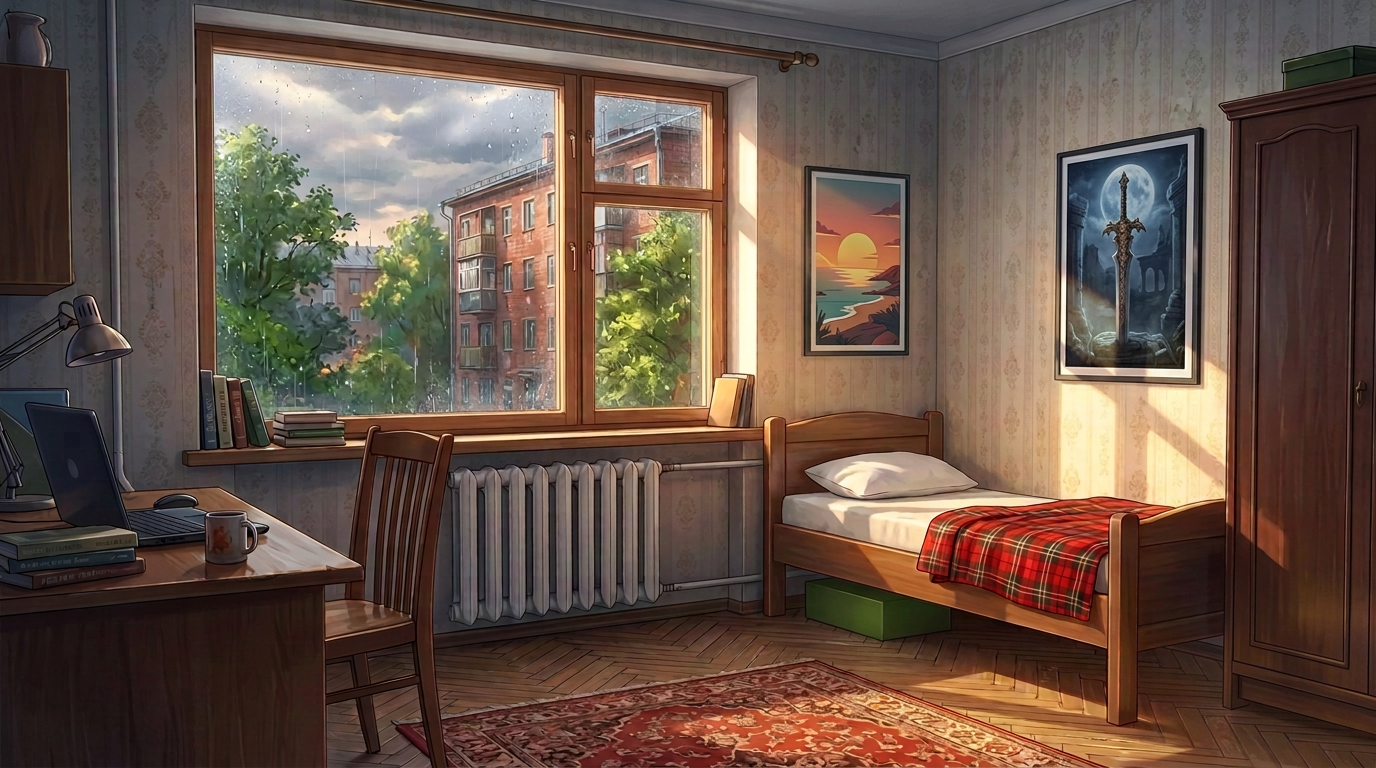
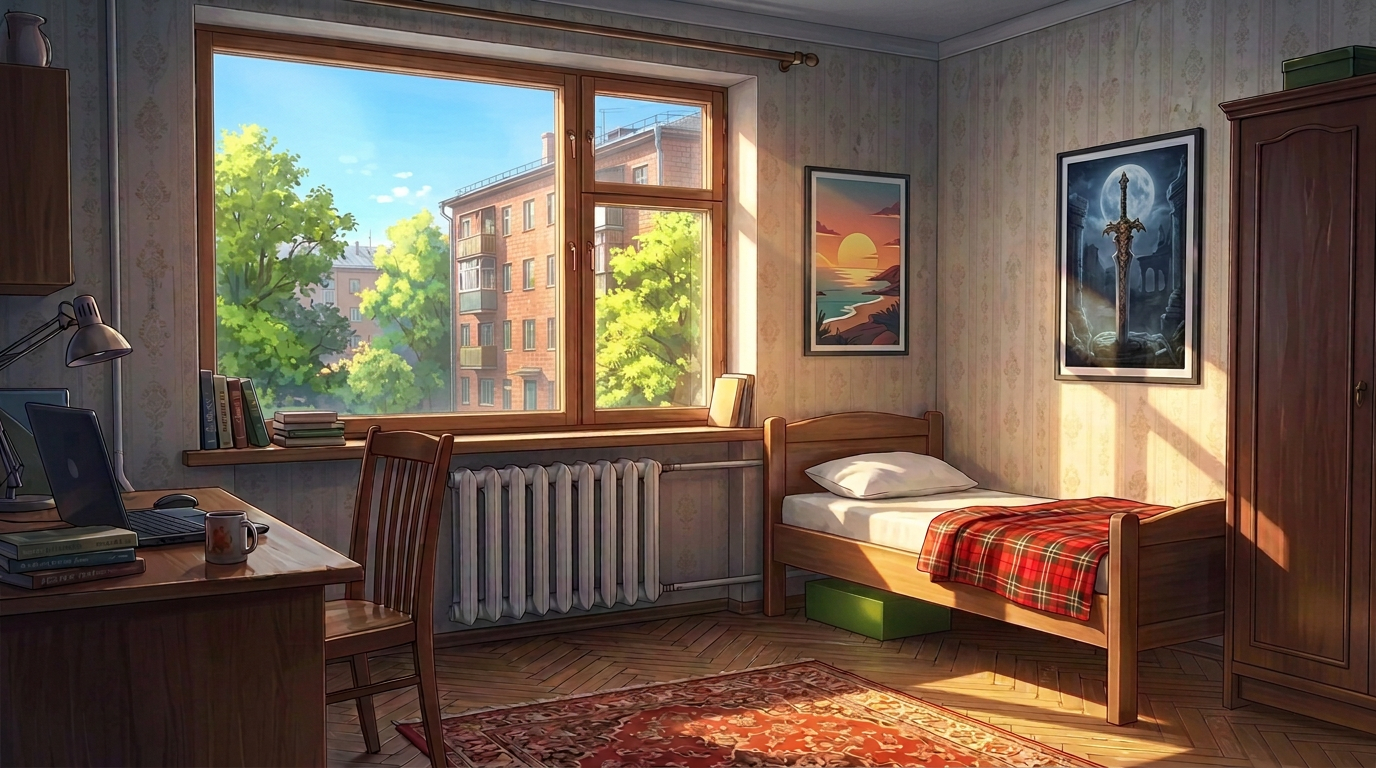
Visuals: dry room/courier spot, night arch and kitchen (same layout), evening embankment, night workshop window, Valeria office window without domes; Dmitry tired/smile; Mirael crying wings fixed; scripts switched to correct backgrounds

diff --git a/script/prologue_3_depot.js b/script/prologue_3_depot.js
@@ -4,11 +4,11 @@ window.VN_CHAPTERS.push({
   day: "ДЕНЬ 0 · ПРОЛОГ",
   title: "Глава III. Горничная с термосом и предгрозовой штиль",
   subtitle: "Точка сбора у шаурмичной · 20:10 – 22:35",
-  bg: "bg_courier_spot",
+  bg: "bg_courier_spot_dry",
   bgm: "workflow.mp3",
   weather: "none",
   nodes: [
-    { sprite: "clear", note: "Фон до грозы должен быть сухим: bg_courier_spot_dry (assets.md §4)", text: "Точка сбора — карман у остановки, между диспетчерской и шаурмичной с жестяным навесом. Вечером тут пахнет луком, бензином и раскалённым за день асфальтом." },
+    { sprite: "clear", text: "Точка сбора — карман у остановки, между диспетчерской и шаурмичной с жестяным навесом. Вечером тут пахнет луком, бензином и раскалённым за день асфальтом." },
     { text: "Духота стояла как в закрытой маршрутке. С запада над пятиэтажками ползла туча, лиловая и плотная, и ни один лист на липах не шевелился." },
     { text: "Из диспетчерской вышел Дмитрий Валерьевич, скрестил руки на груди и оглядел площадку, как прораб — недостроенный объект." },
     { speaker: "Дмитрий", sprite: { char: "dmitry", emotion: "serious", pos: "right" }, text: "Так, орлы. Ближе к ночи заходит фронт, тариф по району подняли в полтора раза. Кто сольётся с линии в грозу — до конца месяца на дневных пакетах." },
@@ -90,7 +90,7 @@ window.VN_CHAPTERS.push({
         ]
       }
     },
-    { bgm: "The Hollow Stare.mp3", weather: "rain", sprite: "clear", text: "Около десяти туча наконец легла на город. Сначала по навесу шаркнули редкие тяжёлые капли, потом громыхнуло так, что в шаурмичной звякнули стаканы, и ливень встал стеной." },
+    { bg: "bg_courier_spot", bgm: "The Hollow Stare.mp3", weather: "rain", sprite: "clear", text: "Около десяти туча наконец легла на город. Сначала по навесу шаркнули редкие тяжёлые капли, потом громыхнуло так, что в шаурмичной звякнули стаканы, и ливень встал стеной." },
     {
       if: "raincoat_packed",
       then: [

diff --git a/script/day1_3_evening.js b/script/day1_3_evening.js
@@ -97,7 +97,7 @@ window.VN_CHAPTERS.push({
         ]
       }
     },
-    { bgm: "River Fog.mp3", text: "Обратно он пошёл другой дорогой, через старые дворы. В глубокой кирпичной арке Старокупеческого переулка было темно и прохладно." },
+    { bg: "bg_courtyard_arch_night", bgm: "River Fog.mp3", text: "Обратно он пошёл другой дорогой, через старые дворы. В глубокой кирпичной арке Старокупеческого переулка было темно и прохладно." },
     {
       if: "saw_taya_d0",
       then: [
@@ -110,7 +110,7 @@ window.VN_CHAPTERS.push({
       ]
     },
     { text: "Пальцы в кармане нашли часы. Он спустился по ступенькам и толкнул дверь." },
-    { bg: "bg_taya_workshop", bgm: "Soft Morning Light.mp3", note: "окно мастерской на фоне должно быть ночным (assets.md §4)", text: "Звякнул колокольчик. Внутри пахло деревом, часовым маслом и чаем. Со всех полок тикали часы — вразнобой, как дождь по крыше." },
+    { bg: "bg_taya_workshop", bgm: "Soft Morning Light.mp3", text: "Звякнул колокольчик. Внутри пахло деревом, часовым маслом и чаем. Со всех полок тикали часы — вразнобой, как дождь по крыше." },
     { speaker: "Тая", sprite: { char: "taya", emotion: "neutral", pos: "right" }, text: "Заходи. Не стой на пороге." },
     { text: "За верстаком под зелёной лампой сидела темноволосая девушка в оливковом кардигане. Она сняла с глаза лупу, и он увидел, что глаза у неё разные: правый зелёный, левый голубой." },
     { speaker: "Александр", sprite: { char: "alexander", emotion: "neutral", pos: "left" }, text: "Добрый вечер. У меня часы встали. Вчера. После... удара." },

diff --git a/index.html b/index.html
@@ -260,22 +260,22 @@
   </div>
 
   <!-- SCRIPT CHAPTERS -->
-  <script src="vn-config.js?v=20261101_05"></script>
-  <script src="vn-core.js?v=20261101_05"></script>
-  <script src="script/_registry.js?v=20261101_05"></script>
-  <script src="script/prologue_1_morning.js?v=20261101_05"></script>
-  <script src="script/prologue_2_city.js?v=20261101_05"></script>
-  <script src="script/prologue_3_depot.js?v=20261101_05"></script>
-  <script src="script/prologue_4_crash.js?v=20261101_05"></script>
-  <script src="script/day1_1_mirael.js?v=20261101_05"></script>
-  <script src="script/day1_2_valeria.js?v=20261101_05"></script>
-  <script src="script/day1_3_evening.js?v=20261101_05"></script>
-  <script src="script/day2_1_taya.js?v=20261101_05"></script>
-  <script src="script/day2_2_depot.js?v=20261101_05"></script>
-  <script src="script/day2_3_night.js?v=20261101_05"></script>
-  <script src="script/day3_1_office.js?v=20261101_05"></script>
-  <script src="script/day3_2_nika.js?v=20261101_05"></script>
-  <script src="script/day3_3_home.js?v=20261101_05"></script>
-  <script src="engine.js?v=20261101_05"></script>
+  <script src="vn-config.js?v=20261101_06"></script>
+  <script src="vn-core.js?v=20261101_06"></script>
+  <script src="script/_registry.js?v=20261101_06"></script>
+  <script src="script/prologue_1_morning.js?v=20261101_06"></script>
+  <script src="script/prologue_2_city.js?v=20261101_06"></script>
+  <script src="script/prologue_3_depot.js?v=20261101_06"></script>
+  <script src="script/prologue_4_crash.js?v=20261101_06"></script>
+  <script src="script/day1_1_mirael.js?v=20261101_06"></script>
+  <script src="script/day1_2_valeria.js?v=20261101_06"></script>
+  <script src="script/day1_3_evening.js?v=20261101_06"></script>
+  <script src="script/day2_1_taya.js?v=20261101_06"></script>
+  <script src="script/day2_2_depot.js?v=20261101_06"></script>
+  <script src="script/day2_3_night.js?v=20261101_06"></script>
+  <script src="script/day3_1_office.js?v=20261101_06"></script>
+  <script src="script/day3_2_nika.js?v=20261101_06"></script>
+  <script src="script/day3_3_home.js?v=20261101_06"></script>
+  <script src="engine.js?v=20261101_06"></script>
 </body>
 </html>

diff --git a/vn-config.js b/vn-config.js
@@ -75,8 +75,8 @@
       fallback: "neutral"
     },
     dmitry: {
-      emotions: set(C + "dmitry/transparent/dmitry_{e}.png", ["neutral", "serious", "angry"]),
-      aliases: { tired: "neutral", smile: "neutral" },
+      emotions: set(C + "dmitry/transparent/dmitry_{e}.png", ["neutral", "serious", "angry", "tired", "smile"]),
+      aliases: {},
       fallback: "neutral"
     },
     taya: {

diff --git a/engine.js b/engine.js
@@ -1,6 +1,6 @@
 // ДВИЖОК ВИЗУАЛЬНОЙ НОВЕЛЛЫ «НЕ СМОТРИ НА НЕБО» ($WAG ENTERTAINMENT)
 (function () {
-  const ASSET_VER = "20261101_05";
+  const ASSET_VER = "20261101_06";
 
   function withVer(url) {
     if (!url) return "";

diff --git a/docs/production/assets.md b/docs/production/assets.md
@@ -8,26 +8,26 @@
 
 | Файл | Что | Можно: время / погода | Проблема (ревью 01.11) |
 |---|---|---|---|
-| `bg_sasha_room_day.png` | Комната Саши днём | утро, день; **только дождь** | За окном идёт дождь, поэтому на сухие дни не годится. Нужен сухой вариант |
+| `bg_sasha_room_day.png` | Комната Саши днём | утро, день, ясно | ✅ 01.11 сухая версия. Дождливая — `bg_sasha_room_day_rain.png` |
 | `bg_sasha_room_night.png` | Комната Саши ночью | вечер, ночь | — |
-| `bg_sasha_kitchen_day.png` | Кухня днём | утро, день | Планировка не совпадает с ночной версией |
-| `bg_sasha_kitchen_night.png` | Кухня ночью | вечер, ночь | Перерисовать в планировке дневной (или наоборот) |
+| `bg_sasha_kitchen_day.png` | Кухня днём | утро, день | — |
+| `bg_sasha_kitchen_night.png` | Кухня ночью | вечер, ночь, сухо | ✅ 01.11 перерисована в планировке дневной |
 | `bg_apartment_hallway.png` | Подъезд / лестничная клетка | любое (свет искусственный) | Для сбоя №3 нужна дверь под лестницей |
 | `bg_summer_town_day.png` | Летняя улица, пятиэтажки | день, ясно | — |
-| `bg_courtyard_arch_day.png` | Арка во двор | **только день** | Использовался ночью (День 1, вечер). Нужен ночной вариант |
-| `bg_river_embankment_day.png` | Речная набережная | день | Для Дня 4 (вечер с Леной) нужен вечерний вариант |
-| `bg_courier_spot.png` | Точка сбора курьеров у шаурмичной | **только дождь / пасмурно** | Мокрая картинка ставится на сухие дни. Нужен сухой вечерний вариант |
+| `bg_courtyard_arch_day.png` | Арка во двор | **только день** | Ночью — `bg_courtyard_arch_night.png` (✅ 01.11) |
+| `bg_river_embankment_day.png` | Речная набережная | день | Вечер — `bg_river_embankment_evening.png` (✅ 01.11) |
+| `bg_courier_spot.png` | Точка сбора курьеров у шаурмичной | **только дождь / пасмурно** | Сухой вечер перед грозой — `bg_courier_spot_dry.png` (✅ 01.11) |
 | `bg_rainy_crossroad.png` | Заречный перекрёсток, ливень | ночь, дождь | — |
 | `bg_barbershop_interior.png` | Барбершоп Артёма | день | — |
 | `bg_artyom_apartment.png` | Квартира Артёма | вечер | — |
 | `bg_city_cafe.png` | Кафе с бабл-ти | день | — |
 | `bg_old_park_bridge.png` | Старый мост в парке | вечер | — |
-| `bg_taya_workshop.png` | Мастерская Таи, полуподвал | **вечер / ночь** (янтарная лампа) | Окно залито дневным светом, а сцены идут в 22:00. Затемнить окно |
-| `bg_valeria_office.png` | Кабинет Валерии | любое | **В окне купола в стиле Исаакиевского собора** — нарушение решения 12. Переделать окно: провинциальные крыши, водонапорная башня |
+| `bg_taya_workshop.png` | Мастерская Таи, полуподвал | **вечер / ночь** (янтарная лампа) | ✅ 01.11 окно ночное |
+| `bg_valeria_office.png` | Кабинет Валерии | день | ✅ 01.11 в окне провинциальные крыши и водонапорная башня, без куполов |
 | `cg_sasha_mirror.png` | CG: Саша у зеркала | Пролог, утро | Поза не совпадает с текстом. Либо править текст под CG, либо перерисовать |
 | `cg_crash_headlights.png` | CG: фары в ливне | Пролог, 22:58 | Слабый. Оставить до перерисовки |
 
-Нужны новые фоны (по `04_plot.md`): приёмная бюро (Инесса), подсобка под лестницей / жёлтый коридор Буфера (сбой №2–3), подъезд Артёма с лифтом, ночной двор Старокупеческого переулка.
+Нужны новые фоны (по `04_plot.md`): приёмная бюро (Инесса), подсобка под лестницей / жёлтый коридор Буфера (сбой №2–3), подъезд Артёма с лифтом. (Ночной двор Старокупеческого — ✅ `bg_courtyard_arch_night`.)
 
 ## 2. Спрайты (`assets/characters/`)
 
@@ -36,13 +36,13 @@
 | Персонаж | Набор | Статус |
 |---|---|---|
 | Саша | `alexander_*` / `alexandr_*` (рубашка), `alexander_jacket_*` и `alexander_courier_rain` (жёлтый дождевик) | Имена непоследовательные (`alexander_` / `alexandr_`), при пересборке свести к одному префиксу |
-| Мираэль | `mirael_angel_*` (крылья — две пары), `mirael_human_*` | У `mirael_angel_crying` крылья другой формы — перерисовать под остальные |
+| Мираэль | `mirael_angel_*` (крылья — две пары), `mirael_human_*` | ✅ 01.11 `mirael_angel_crying` — крылья как у остальных |
 | Валерия | `valeria_*` (истинный облик), `valeria_human_*` (серая рубашка, юбка-карандаш) | ✅ 01.11 перевырезаны из RGB-оригиналов (заливка фона от краёв + маска сегментации): без дыр в страницах, рогах, пальцах |
 | Ника | `nika_*` | ОК. Человеческого облика нет (и не нужно, решение 7) |
 | Лена | `lena_*`, включая `lena_coffee` (термос с клапаном) | Косухи на спрайтах **нет** — в тексте не упоминаем |
 | Тая | `taya_*` | ОК |
 | Артём | `artem_shank_*`: empty, happy, neutral, sad | **Не трогать без автора:** нарисован по фото реального друга автора как отсылка. Перерисовка в общем стиле — когда-нибудь, только сохраняя сходство |
-| Дмитрий | `dmitry/transparent/dmitry_*`: neutral, serious (с телефоном), angry | ✅ 01.11 перерисован. Бейдж перенабран шрифтом. **Ещё нужны:** tired, smile (пока алиасы на neutral) |
+| Дмитрий | `dmitry/transparent/dmitry_*`: neutral, serious (с телефоном), angry, tired, smile | ✅ 01.11 перерисован. Бейдж перенабран шрифтом |
 
 Масштаб в кадре задаётся в `styles.css` (см. `../feedback_log.md` п. 2.4).
 
@@ -68,13 +68,9 @@
 
 Инструменты: `tools/` не содержит генераторов; вырезка делалась скриптом вне репо (заливка белого от краёв + маска ISNet, кромка с удалением примеси белого). Для персонажей с белой одеждой (Мираэль, Саша, Лена) правило «чистый белый = фон» отключать.
 
-1. `bg_valeria_office` — переделать окно (без куполов).
-2. `bg_sasha_room_day` — сухая версия; дождливую оставить как `bg_sasha_room_day_rain`.
-3. Кухня: день и ночь в одной планировке.
-4. `bg_courtyard_arch_night`, `bg_courier_spot_dry` (вечер, сухо), `bg_river_embankment_evening`.
-5. `bg_taya_workshop` — окно в ночи.
-6. ~~Перерисовать Дмитрия~~ ✅ (дорисовать tired, smile). Артём — отложено автором (сходство с реальным прототипом важнее единого стиля).
-7. `mirael_angel_crying` — крылья как у остальных `mirael_angel_*`.
+1–5. ✅ 01.11: окно кабинета, сухая комната, кухня в одной планировке, ночная арка, сухая точка, вечерняя набережная, ночное окно мастерской.
+6. ~~Перерисовать Дмитрия~~ ✅ (5 эмоций). Артём — отложено автором (сходство с реальным прототипом важнее единого стиля).
+7. ✅ `mirael_angel_crying`.
 8. CG: решить по `cg_sasha_mirror` (текст ↔ картинка); `cg_crash_headlights` — перерисовать при возможности.
 9. Оптимизация: фоны 1376×768 весят 1.4–2.9 МБ. Конвертировать в WebP (~200–400 КБ), привести ширину спрайтов к одному стандарту.
 10. `sprites_for_cutout/` (63 МБ) и корневые дубли спрайтов вынести из игры (в отдельную ветку/архив) после того, как автор подтвердит, что ручная вырезка не нужна.
